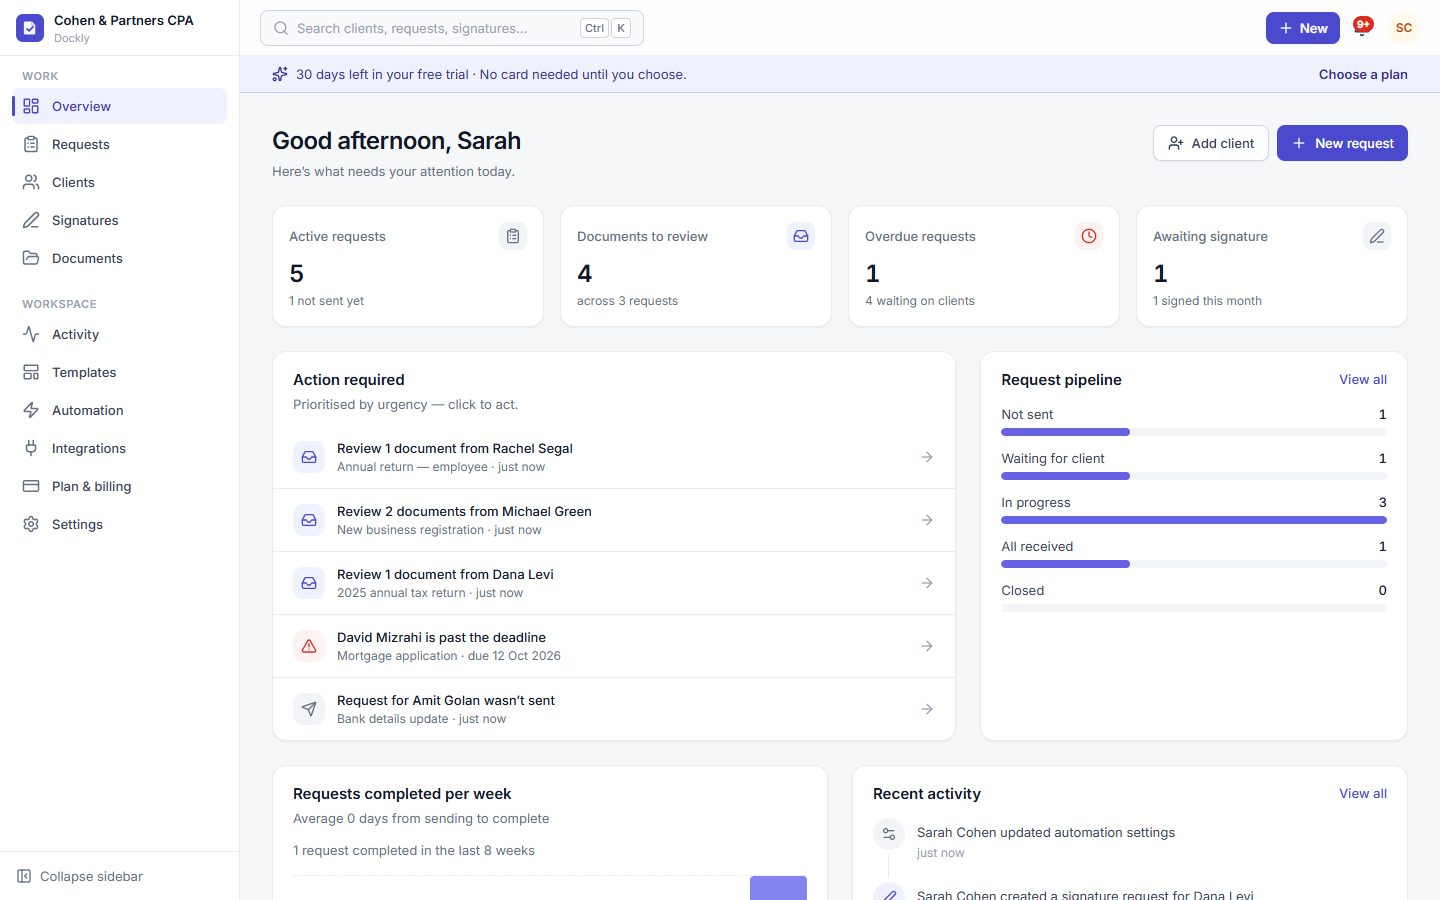
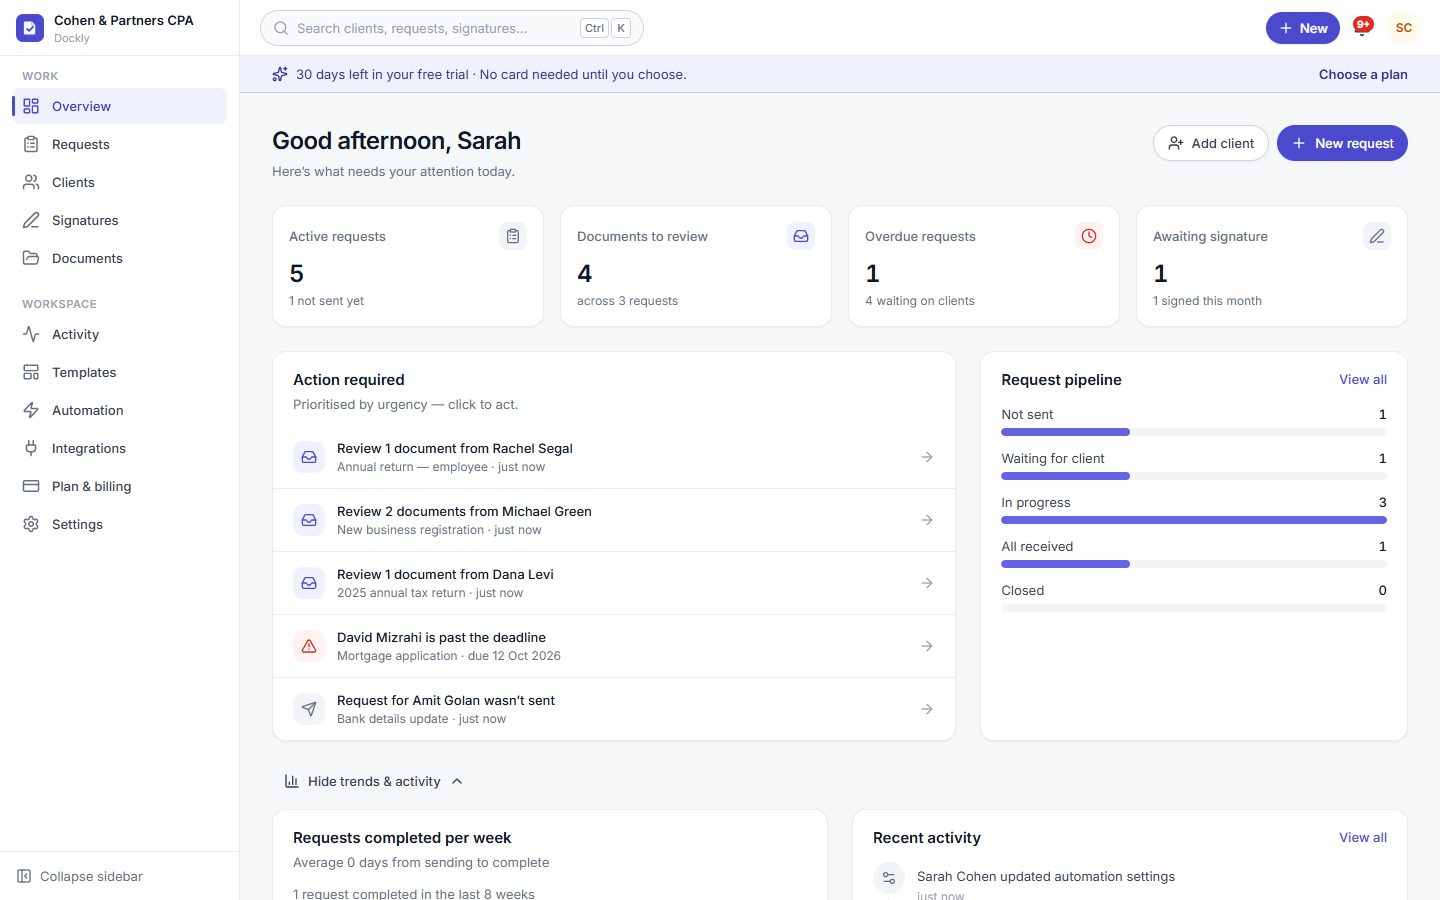
feat(i18n,ui): localizable notifications, marketing & dashboard polish
- Migration 0005: notifications carry a template key + params so the UI
  renders them in the viewer's language (existing rows backfilled).
- Server activity/requests/signing/billing/WhatsApp emit templated notifications.
- UI refinements across dashboard, settings, signing, marketing pages; refreshed
  marketing screenshots and OG images.

diff --git a/src/pages/dashboard/DashboardPage.tsx b/src/pages/dashboard/DashboardPage.tsx
@@ -2,7 +2,7 @@ import { useState } from 'react'
 import { Link } from 'react-router-dom'
 import {
   ClipboardList, Inbox, AlertTriangle, PenLine, ArrowRight, CheckCircle2, Clock, MessageSquare, Send, Plus,
-  UserPlus, Upload, Circle, Sparkles, Hourglass,
+  UserPlus, Upload, Circle, Sparkles, Hourglass, ChevronDown, BarChart3,
 } from 'lucide-react'
 import { cn } from '@/lib/utils'
 import { useI18n } from '@/contexts/I18nContext'
@@ -170,11 +170,19 @@ function GettingStarted({ o }: { o: Dashboard['onboarding'] }) {
   )
 }
 
+const INSIGHTS_KEY = 'dockly-dashboard-insights'
+
 export default function DashboardPage() {
   const { t, fmt } = useI18n()
   const { user, can } = useAuth()
   const { data, error, loading, refetch } = useApi('dashboard', insightsApi.dashboard, { topics: ['requests', 'signatures', 'support', 'clients'] })
-  const activity = useApi('activity:recent', () => insightsApi.activity({ limit: 12 }), { topics: ['activity'] })
+  const [insightsOpen, setInsightsOpen] = useState(() => {
+    try { return localStorage.getItem(INSIGHTS_KEY) === 'open' } catch { return false }
+  })
+  const toggleInsights = (open: boolean) => {
+    setInsightsOpen(open)
+    try { localStorage.setItem(INSIGHTS_KEY, open ? 'open' : 'closed') } catch { /* ignore */ }
+  }
   const hour = new Date().getHours()
   const greeting = hour < 12 ? t('dashboard.morning') : hour < 18 ? t('dashboard.afternoon') : t('dashboard.evening')
 
@@ -217,27 +225,49 @@ export default function DashboardPage() {
             </Card>
           </div>
 
-          <div className="grid gap-6 xl:grid-cols-[minmax(0,1fr)_minmax(0,1fr)]">
-            <Card>
-              <CardHeader
-                title={t('dashboard.trendTitle')}
-                description={data?.kpis.avgDaysToComplete != null ? t('dashboard.avgDays', { days: fmt.number(data.kpis.avgDaysToComplete) }) : undefined}
-              />
-              <CardBody>{data ? <WeeklyChart trend={data.trend} /> : <Skeleton className="h-44" />}</CardBody>
-            </Card>
-            <Card>
-              <CardHeader title={t('dashboard.recentActivity')} action={<Link to="/app/activity" className="text-sm font-medium text-brand-600 hover:text-brand-700">{t('common.viewAll')}</Link>} />
-              <CardBody>
-                {activity.loading ? <Skeleton className="h-44" /> : activity.data && activity.data.length > 0 ? (
-                  <ActivityFeed items={activity.data.slice(0, 7)} compact />
-                ) : (
-                  <EmptyState compact icon={<Upload />} title={t('activity.empty')} description={t('activity.emptyHint')} />
-                )}
-              </CardBody>
-            </Card>
-          </div>
+          <section aria-label={t('dashboard.insights')}>
+            <button
+              type="button"
+              aria-expanded={insightsOpen}
+              aria-controls="dashboard-insights-panel"
+              onClick={() => toggleInsights(!insightsOpen)}
+              className="inline-flex items-center gap-2 px-3 py-1.5 text-sm font-medium text-fg-2 hover:bg-surface-3 hover:text-fg focus-visible:outline-none focus-visible:shadow-[var(--shadow-focus)]"
+            >
+              <BarChart3 className="size-4" />
+              {insightsOpen ? t('dashboard.hideInsights') : t('dashboard.showInsights')}
+              <ChevronDown className={cn('size-4 transition-transform', insightsOpen && 'rotate-180')} />
+            </button>
+            {insightsOpen && <div id="dashboard-insights-panel" className="mt-3"><Insights data={data} /></div>}
+          </section>
         </div>
       )}
     </>
+  )
+}
+
+/** Weekly trend + recent activity. Mounted only when opened, so the activity feed isn't fetched otherwise. */
+function Insights({ data }: { data: Dashboard | undefined }) {
+  const { t, fmt } = useI18n()
+  const activity = useApi('activity:recent', () => insightsApi.activity({ limit: 12 }), { topics: ['activity'] })
+  return (
+    <div className="grid gap-6 xl:grid-cols-[minmax(0,1fr)_minmax(0,1fr)]">
+      <Card>
+        <CardHeader
+          title={t('dashboard.trendTitle')}
+          description={data?.kpis.avgDaysToComplete != null ? t('dashboard.avgDays', { days: fmt.number(data.kpis.avgDaysToComplete) }) : undefined}
+        />
+        <CardBody>{data ? <WeeklyChart trend={data.trend} /> : <Skeleton className="h-44" />}</CardBody>
+      </Card>
+      <Card>
+        <CardHeader title={t('dashboard.recentActivity')} action={<Link to="/app/activity" className="text-sm font-medium text-brand-600 hover:text-brand-700">{t('common.viewAll')}</Link>} />
+        <CardBody>
+          {activity.loading ? <Skeleton className="h-44" /> : activity.data && activity.data.length > 0 ? (
+            <ActivityFeed items={activity.data.slice(0, 7)} compact />
+          ) : (
+            <EmptyState compact icon={<Upload />} title={t('activity.empty')} description={t('activity.emptyHint')} />
+          )}
+        </CardBody>
+      </Card>
+    </div>
   )
 }

diff --git a/src/components/layout/Topbar.tsx b/src/components/layout/Topbar.tsx
@@ -9,13 +9,31 @@ import { useApp } from '@/contexts/AppContext'
 import { useTheme } from '@/contexts/ThemeContext'
 import { useApi, invalidate } from '@/hooks/useApi'
 import { notificationsApi } from '@/services'
+import type { Notification } from '@/types'
 import { Menu } from '@/components/ui/Menu'
 import { Button, IconButton } from '@/components/ui/Button'
 import { Avatar } from '@/components/ui/Misc'
 import { Kbd } from '@/components/ui/States'
 
+const NOTIFICATION_TEMPLATES = new Set(['document_uploaded', 'request_completed', 'signature_signed', 'signature_declined', 'support_message'])
+
+/** Render a notification in the viewer's language; falls back to the stored (English) text. */
+function useNotificationText() {
+  const { t, language } = useI18n()
+  return (n: Notification): { title: string; message: string } => {
+    if (n.template === 'localized') {
+      const copy = (n.params as Record<string, { title?: string; body?: string }> | undefined)?.[language]
+      if (copy?.title) return { title: copy.title, message: copy.body || '' }
+    } else if (n.template && NOTIFICATION_TEMPLATES.has(n.template)) {
+      return { title: t(`notifications.templates.${n.template}`, n.params as Record<string, string>), message: n.message }
+    }
+    return { title: n.title, message: n.message }
+  }
+}
+
 function NotificationsButton() {
   const { t, fmt } = useI18n()
+  const text = useNotificationText()
   const navigate = useNavigate()
   const [open, setOpen] = useState(false)
   const btn = useRef<HTMLButtonElement>(null)
@@ -73,7 +91,9 @@ function NotificationsButton() {
           </div>
           <ul className="max-h-[420px] overflow-y-auto scroll-thin divide-y divide-line">
             {data.length === 0 && <li className="px-4 py-10 text-center text-sm text-fg-3">{t('notifications.empty')}</li>}
-            {data.map((n) => (
+            {data.map((n) => {
+              const { title, message } = text(n)
+              return (
               <li key={n.id}>
                 <button
                   type="button"
@@ -86,13 +106,14 @@ function NotificationsButton() {
                 >
                   <span className={cn('mt-1.5 size-2 shrink-0 rounded-full', n.read ? 'bg-transparent' : 'bg-brand-600')} aria-hidden />
                   <span className="min-w-0 flex-1">
-                    <span className={cn('block text-sm', n.read ? 'text-fg-2' : 'font-medium text-fg')}>{n.title}</span>
-                    {n.message && <span className="mt-0.5 block truncate text-xs text-fg-3">{n.message}</span>}
+                    <span className={cn('block text-sm', n.read ? 'text-fg-2' : 'font-medium text-fg')}>{title}</span>
+                    {message && <span className="mt-0.5 block truncate text-xs text-fg-3"><bdi>{message}</bdi></span>}
                     <span className="mt-1 block text-2xs text-fg-4">{fmt.relative(n.timestamp)}</span>
                   </span>
                 </button>
               </li>
-            ))}
+              )
+            })}
           </ul>
         </div>,
         document.body,

diff --git a/src/marketing/pages/HomePage.tsx b/src/marketing/pages/HomePage.tsx
@@ -65,10 +65,10 @@ export function HomePage({ copy, lang }: PageProps) {
             </h1>
             <p className="mx-auto mt-6 max-w-2xl text-lg leading-relaxed text-fg-3">{copy.hero.subtitle}</p>
             <div className="mt-8 flex flex-col items-center justify-center gap-3 sm:flex-row">
-              <a href={signup} data-cta="hero" className="inline-flex h-12 items-center gap-2 rounded-lg bg-brand-600 px-6 text-md font-semibold text-white shadow-sm hover:bg-brand-700">
+              <a href={signup} data-cta="hero" className="inline-flex h-12 items-center gap-2 rounded-full bg-brand-600 px-6 text-md font-semibold text-white shadow-sm hover:bg-brand-700">
                 {copy.hero.primary}<Arrow className="size-4" aria-hidden />
               </a>
-              <a href="#how" className="inline-flex h-12 items-center rounded-lg border border-line-2 bg-white px-6 text-md font-semibold text-fg hover:bg-surface-2">{copy.hero.secondary}</a>
+              <a href="#how" className="inline-flex h-12 items-center rounded-full border border-line-2 bg-white px-6 text-md font-semibold text-fg hover:bg-surface-2">{copy.hero.secondary}</a>
             </div>
             <ul className="mt-6 flex flex-wrap items-center justify-center gap-x-5 gap-y-2 text-sm text-fg-3">
               {copy.hero.points.map((p) => <li key={p} className="flex items-center gap-1.5"><Check className="size-4 text-success" aria-hidden />{p}</li>)}
@@ -263,8 +263,8 @@ export function FinalCta({ copy, lang }: PageProps) {
         <h2 id="final-title" className="text-3xl font-semibold tracking-tight sm:text-4xl">{copy.final.title}</h2>
         <p className="mx-auto mt-4 max-w-xl text-lg text-brand-100">{copy.final.subtitle}</p>
         <div className="mt-8 flex flex-col items-center justify-center gap-3 sm:flex-row">
-          <a href={`/auth/signup?lang=${lang}`} data-cta="final" className="inline-flex h-12 items-center rounded-lg bg-white px-6 font-semibold text-brand-800 hover:bg-brand-50">{copy.final.cta}</a>
-          <a href={marketingPath('pricing', lang)} className="inline-flex h-12 items-center rounded-lg px-6 font-semibold text-white ring-1 ring-white/30 hover:bg-white/10">{copy.final.secondary}</a>
+          <a href={`/auth/signup?lang=${lang}`} data-cta="final" className="inline-flex h-12 items-center rounded-full bg-white px-6 font-semibold text-brand-800 hover:bg-brand-50">{copy.final.cta}</a>
+          <a href={marketingPath('pricing', lang)} className="inline-flex h-12 items-center rounded-full px-6 font-semibold text-white ring-1 ring-white/30 hover:bg-white/10">{copy.final.secondary}</a>
         </div>
         <p className="mt-6 text-sm text-brand-200">{copy.final.note}</p>
       </div>

diff --git a/src/i18n/sections/dashboard.ts b/src/i18n/sections/dashboard.ts
@@ -21,6 +21,7 @@ export default {
     pipeline: 'Request pipeline', trendTitle: 'Requests completed per week', week: 'Week', weekOf: 'Week of {{date}}',
     completedShort: 'completed', uploadsShort: 'uploads', completedTotal_one: '{{count}} request completed in the last 8 weeks', completedTotal_other: '{{count}} requests completed in the last 8 weeks',
     avgDays: 'Average {{days}} days from sending to complete', recentActivity: 'Recent activity',
+    insights: 'Trends and activity', showInsights: 'Show trends & activity', hideInsights: 'Hide trends & activity',
     start: {
       title: 'Get set up', progress: '{{done}} of {{total}} done', client: 'Add your first client', request: 'Create a document request',
       send: 'Send it to the client', branding: 'Add your logo and color', signature: 'Send a document for signature',
@@ -48,6 +49,7 @@ export default {
     pipeline: 'מצב הבקשות', trendTitle: 'בקשות שהושלמו בכל שבוע', week: 'שבוע', weekOf: 'שבוע {{date}}',
     completedShort: 'הושלמו', uploadsShort: 'העלאות', completedTotal_one: 'בקשה אחת הושלמה ב-8 השבועות האחרונים', completedTotal_two: '{{count}} בקשות הושלמו ב-8 השבועות האחרונים', completedTotal_other: '{{count}} בקשות הושלמו ב-8 השבועות האחרונים',
     avgDays: 'בממוצע {{days}} ימים משליחה ועד השלמה', recentActivity: 'פעילות אחרונה',
+    insights: 'מגמות ופעילות', showInsights: 'הצגת מגמות ופעילות', hideInsights: 'הסתרת מגמות ופעילות',
     start: {
       title: 'צעדים ראשונים', progress: '{{done}} מתוך {{total}} הושלמו', client: 'הוספת הלקוח הראשון', request: 'יצירת בקשת מסמכים',
       send: 'שליחה ללקוח', branding: 'הוספת לוגו וצבע', signature: 'שליחת מסמך לחתימה',

diff --git a/src/i18n/he.ts b/src/i18n/he.ts
@@ -29,7 +29,15 @@ const he = {
     open: 'חיפוש', placeholder: 'חיפוש לקוחות, בקשות וחתימות…', actions: 'פעולות מהירות', goTo: 'מעבר אל',
     typeMore: 'הקלידו לפחות 2 תווים', noResults: 'לא נמצאו תוצאות',
   },
-  notifications: { label: 'התראות', labelUnread_one: 'התראות, התראה אחת שלא נקראה', labelUnread_two: 'התראות, {{count}} שלא נקראו', labelUnread_other: 'התראות, {{count}} שלא נקראו', markAll: 'סימון הכול כנקרא', empty: 'אין התראות חדשות' },
+  notifications: { label: 'התראות', labelUnread_one: 'התראות, התראה אחת שלא נקראה', labelUnread_two: 'התראות, {{count}} שלא נקראו', labelUnread_other: 'התראות, {{count}} שלא נקראו', markAll: 'סימון הכול כנקרא', empty: 'אין התראות חדשות',
+    templates: {
+      document_uploaded: '{{client}} העלה/תה את {{document}}',
+      request_completed: '{{client}} הגיש/ה את כל המסמכים הנדרשים',
+      signature_signed: '{{signer}} חתם/ה על "{{title}}"',
+      signature_declined: '{{client}} סירב/ה לחתום על "{{title}}"',
+      support_message: 'הודעת תמיכה חדשה מ{{client}}',
+    },
+  },
   upload: {
     choose: 'בחירת קובץ', chooseFiles: 'בחירת קבצים', orDrag: 'או גררו לכאן', takePhoto: 'צילום',
     formats: 'קבצים מותרים: {{formats}} · עד {{size}}MB', uploading: 'מעלה…', processing: 'מעבד…', cancel: 'ביטול העלאה',

diff --git a/src/components/ui/Tabs.tsx b/src/components/ui/Tabs.tsx
@@ -37,8 +37,10 @@ export function Tabs({ tabs, value, onChange, label, className, variant = 'line'
       role="tablist"
       aria-label={label}
       className={cn(
-        'flex gap-1 overflow-x-auto scroll-thin',
-        variant === 'line' ? 'border-b border-line' : 'rounded-lg bg-surface-3 p-1',
+        'flex gap-1 overflow-x-auto overflow-y-hidden scroll-thin',
+        // The baseline is an inset shadow (not a border) so the active tab's underline can sit on it
+        // without overflowing the container, which would otherwise show a needless scrollbar.
+        variant === 'line' ? 'shadow-[inset_0_-1px_0_var(--dk-line)]' : 'rounded-full bg-surface-3 p-1',
         className,
       )}
     >
@@ -59,8 +61,8 @@ export function Tabs({ tabs, value, onChange, label, className, variant = 'line'
             className={cn(
               'relative inline-flex shrink-0 items-center gap-2 whitespace-nowrap text-sm font-medium transition-colors focus-visible:outline-none',
               variant === 'line'
-                ? cn('h-10 px-3 -mb-px border-b-2', selected ? 'border-brand-600 text-fg' : 'border-transparent text-fg-3 hover:text-fg-2 focus-visible:text-fg')
-                : cn('h-8 rounded-md px-3', selected ? 'bg-surface text-fg shadow-xs' : 'text-fg-3 hover:text-fg-2'),
+                ? cn('h-10 px-3 border-b-2 rounded-none', selected ? 'border-brand-600 text-fg' : 'border-transparent text-fg-3 hover:text-fg-2 focus-visible:text-fg')
+                : cn('h-8 rounded-full px-3', selected ? 'bg-surface text-fg shadow-xs' : 'text-fg-3 hover:text-fg-2'),
             )}
           >
             {tab.icon}

diff --git a/src/i18n/en.ts b/src/i18n/en.ts
@@ -29,7 +29,15 @@ const en = {
     open: 'Search', placeholder: 'Search clients, requests, signatures…', actions: 'Quick actions', goTo: 'Go to',
     typeMore: 'Type at least 2 characters', noResults: 'No matches',
   },
-  notifications: { label: 'Notifications', labelUnread_one: 'Notifications, {{count}} unread', labelUnread_other: 'Notifications, {{count}} unread', markAll: 'Mark all read', empty: 'You’re all caught up' },
+  notifications: { label: 'Notifications', labelUnread_one: 'Notifications, {{count}} unread', labelUnread_other: 'Notifications, {{count}} unread', markAll: 'Mark all read', empty: 'You’re all caught up',
+    templates: {
+      document_uploaded: '{{client}} uploaded {{document}}',
+      request_completed: '{{client}} submitted every required document',
+      signature_signed: '{{signer}} signed "{{title}}"',
+      signature_declined: '{{client}} declined "{{title}}"',
+      support_message: 'New support message from {{client}}',
+    },
+  },
   upload: {
     choose: 'Choose a file', chooseFiles: 'Choose files', orDrag: 'or drag it here', takePhoto: 'Take a photo',
     formats: 'Accepted: {{formats}} · up to {{size}} MB', uploading: 'Uploading…', processing: 'Processing…', cancel: 'Cancel upload',

diff --git a/src/components/ui/Button.tsx b/src/components/ui/Button.tsx
@@ -23,10 +23,10 @@ const variants: Record<ButtonVariant, string> = {
 }
 
 const sizes: Record<ButtonSize, string> = {
-  xs: 'h-7 px-2 text-xs rounded-sm gap-1',
-  sm: 'h-8 px-3 text-sm rounded-md gap-1.5',
-  md: 'h-9 px-3.5 text-sm rounded-md',
-  lg: 'h-11 px-5 text-md rounded-lg',
+  xs: 'h-7 px-2 text-xs rounded-full gap-1',
+  sm: 'h-8 px-3 text-sm rounded-full gap-1.5',
+  md: 'h-9 px-3.5 text-sm rounded-full',
+  lg: 'h-11 px-5 text-md rounded-full',
 }
 
 const iconSizes: Record<ButtonSize, string> = { xs: 'size-7', sm: 'size-8', md: 'size-9', lg: 'size-11' }
@@ -79,7 +79,7 @@ export const IconButton = forwardRef<HTMLButtonElement, IconButtonProps>(functio
   { label, icon, variant = 'ghost', size = 'md', loading, tooltip = true, to, className, type = 'button', disabled, ...props },
   ref,
 ) {
-  const classes = cn(base, variants[variant], 'rounded-md p-0', iconSizes[size], className)
+  const classes = cn(base, variants[variant], 'rounded-full p-0', iconSizes[size], className)
   const inner = loading ? <Loader2 className="size-4 animate-spin" aria-hidden /> : icon
   const el = to && !disabled
     ? <Link to={to} className={classes} aria-label={label}>{inner}</Link>

diff --git a/src/marketing/components/Layout.tsx b/src/marketing/components/Layout.tsx
@@ -48,7 +48,7 @@ export function Layout({ copy, lang, page, children }: PageProps & { page: Marke
               <Languages className="size-4" aria-hidden />{copy.nav.otherLanguage}
             </a>
             <a href="/auth/signin" className="hidden rounded-md px-3 py-2 text-sm font-medium text-fg-2 hover:bg-surface-3 hover:text-fg sm:inline-flex">{copy.nav.signIn}</a>
-            <a href={signup} data-cta="header" className="inline-flex h-9 items-center rounded-md bg-brand-600 px-3.5 text-sm font-semibold text-white shadow-xs hover:bg-brand-700">{copy.nav.cta}</a>
+            <a href={signup} data-cta="header" className="inline-flex h-9 items-center rounded-full bg-brand-600 px-3.5 text-sm font-semibold text-white shadow-xs hover:bg-brand-700">{copy.nav.cta}</a>
             <details className="mk-menu relative lg:hidden">
               <summary className="flex size-9 cursor-pointer list-none items-center justify-center rounded-md text-fg-2 hover:bg-surface-3" aria-label={copy.nav.menu}>
                 <Menu className="size-5" aria-hidden />

diff --git a/src/pages/signatures/SignatureCreatePage.tsx b/src/pages/signatures/SignatureCreatePage.tsx
@@ -133,7 +133,7 @@ export default function SignatureCreatePage() {
           {ready.length > 1 && (
             <div role="tablist" className="flex gap-2 overflow-x-auto">
               {ready.map((d, i) => (
-                <button key={d.localId} role="tab" aria-selected={activeDoc === i} type="button" onClick={() => setActiveDoc(i)} className={cn('flex shrink-0 items-center gap-2 rounded-md border px-3 py-1.5 text-sm', activeDoc === i ? 'border-brand-500 bg-brand-soft' : 'border-line bg-surface')}>
+                <button key={d.localId} role="tab" aria-selected={activeDoc === i} type="button" onClick={() => setActiveDoc(i)} className={cn('flex shrink-0 items-center gap-2 rounded-full border px-3 py-1.5 text-sm', activeDoc === i ? 'border-brand-500 bg-brand-soft' : 'border-line bg-surface')}>
                   <FileText className="size-4" /><bdi>{d.uploaded!.fileName}</bdi>
                   <span className="rounded-full bg-surface-3 px-1.5 text-2xs tabular">{fields.filter((f) => f.docIndex === i).length}</span>
                 </button>

diff --git a/src/pages/portal/SignPage.tsx b/src/pages/portal/SignPage.tsx
@@ -207,7 +207,7 @@ function Signer({ token }: { token: string }) {
       {data.documents.length > 1 && (
         <div role="tablist" className="mb-3 flex gap-2 overflow-x-auto">
           {data.documents.map((d, i) => (
-            <button key={d.id} role="tab" type="button" aria-selected={activeDoc === i} onClick={() => setActiveDoc(i)} className={cn('flex shrink-0 items-center gap-2 rounded-md border px-3 py-1.5 text-sm', activeDoc === i ? 'border-brand-500 bg-brand-soft' : 'border-line bg-surface')}>
+            <button key={d.id} role="tab" type="button" aria-selected={activeDoc === i} onClick={() => setActiveDoc(i)} className={cn('flex shrink-0 items-center gap-2 rounded-full border px-3 py-1.5 text-sm', activeDoc === i ? 'border-brand-500 bg-brand-soft' : 'border-line bg-surface')}>
               <FileText className="size-4" /><bdi>{d.fileName}</bdi>
             </button>
           ))}

diff --git a/src/marketing/components/PricingCards.tsx b/src/marketing/components/PricingCards.tsx
@@ -74,7 +74,7 @@ export function PricingCards({ copy, lang, showToggles = true }: { copy: Marketi
                         data-plan={plan.code}
                         data-plan-interval={interval}
                         href={`/auth/signup?lang=${lang}&plan=${plan.code}&interval=${interval}`}
-                        className={`mt-6 inline-flex h-11 items-center justify-center rounded-lg px-5 text-sm font-semibold ${best ? 'bg-brand-600 text-white hover:bg-brand-700' : 'border border-line-2 bg-white text-fg hover:bg-surface-2'}`}
+                        className={`mt-6 inline-flex h-11 items-center justify-center rounded-full px-5 text-sm font-semibold ${best ? 'bg-brand-600 text-white hover:bg-brand-700' : 'border border-line-2 bg-white text-fg hover:bg-surface-2'}`}
                       >
                         {p.cta}
                       </a>
